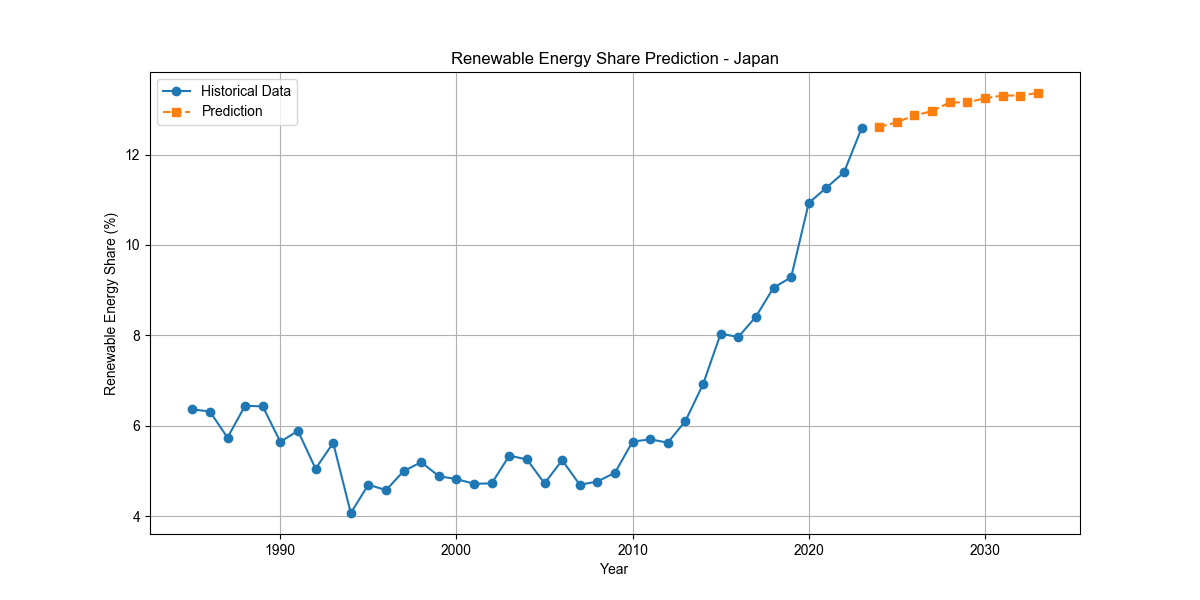
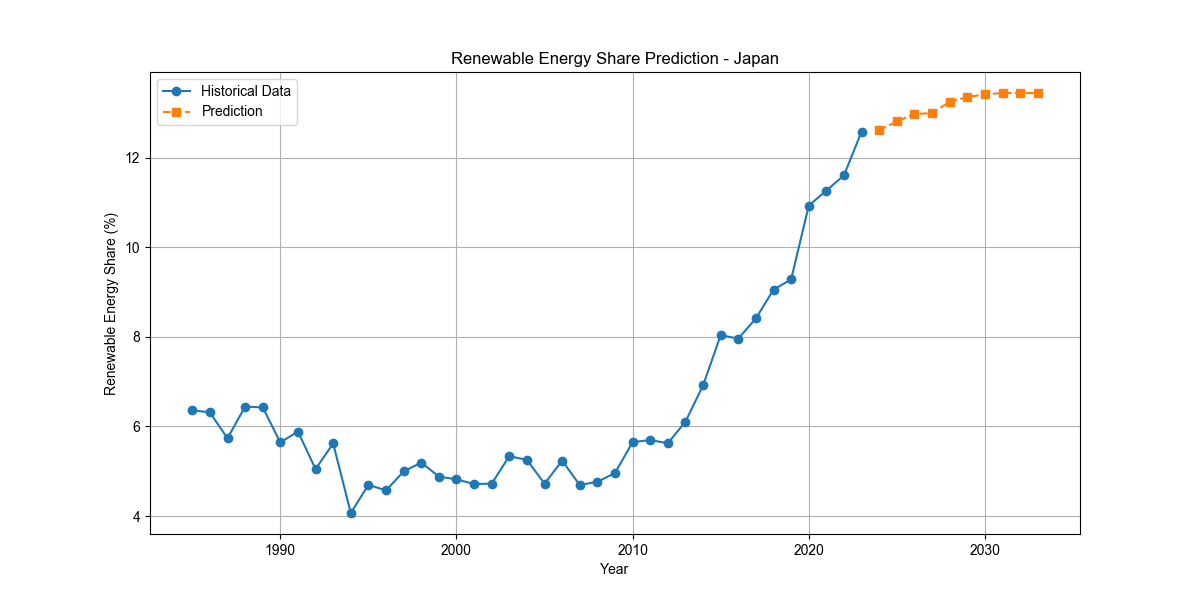
改进画图，做预测和实际的对比

diff --git a/main.py b/main.py
@@ -100,15 +100,15 @@ def filter_early_missing_data(df, missing_threshold=0.3):
     df_filtered = pd.concat(filtered_data, ignore_index=True)
     
     # 输出过滤信息
-    print("\n数据过滤信息:")
-    for country in df['country'].unique():
-        original_years = df[df['country'] == country]['year'].nunique()
-        if country_start_years[country] is not None:
-            filtered_years = df_filtered[df_filtered['country'] == country]['year'].nunique()
-            start_year = country_start_years[country]
-            print(f"{country}: 原始年份数 {original_years} -> 过滤后年份数 {filtered_years} (起始年份: {start_year})")
-        else:
-            print(f"{country}: 原始年份数 {original_years} -> 已删除 (未找到连续5年数据质量合格的起始年份)")
+    # print("\n数据过滤信息:")
+    # for country in df['country'].unique():
+    #     original_years = df[df['country'] == country]['year'].nunique()
+    #     if country_start_years[country] is not None:
+    #         filtered_years = df_filtered[df_filtered['country'] == country]['year'].nunique()
+    #         start_year = country_start_years[country]
+    #         print(f"{country}: 原始年份数 {original_years} -> 过滤后年份数 {filtered_years} (起始年份: {start_year})")
+    #     else:
+    #         print(f"{country}: 原始年份数 {original_years} -> 已删除 (未找到连续5年数据质量合格的起始年份)")
     
     return df_filtered
 
@@ -421,10 +421,17 @@ def train_model(df, test_years=5):
     country_scores = {}
     
     for country in countries:
+        # 获取该国家在测试集中的数据
         country_mask_test = (df['country'] == country) & test_mask
-        if sum(country_mask_test) > 1:  # 确保该国家在测试集中至少有2个数据点
+        country_test_data = df[country_mask_test]
+        
+        # 确保该国家在测试集中有足够的数据点（至少3年）
+        if len(country_test_data) >= 3:
+            # 使用该国家在测试集中的数据进行预测
             X_test_country = X[country_mask_test]
             y_test_country = y[country_mask_test]
+            
+            # 计算该国家的R²分数
             score = model.score(X_test_country, y_test_country)
             country_scores[country] = score
     
@@ -433,7 +440,7 @@ def train_model(df, test_years=5):
     for country, score in sorted(country_scores.items(), key=lambda x: x[1], reverse=True):
         print(f"{country}: {score:.3f}")
     
-    return model, X_train, X_test, y_train, y_test, country_scores
+    return model, X_train, X_test, y_train, y_test, country_scores, test_mask
 
 def evaluate_with_time_series_cv(df, n_splits=5):
     """
@@ -523,28 +530,45 @@ def analyze_feature_importance(model, feature_names):
 
 def predict_future(model, df, country, years_to_predict=5):
     """预测特定国家的未来趋势"""
-    latest_data = df[df['country'] == country].iloc[-1:].copy()
-    predictions = []
+    # 获取该国家的最新数据
+    country_data = df[df['country'] == country].copy()
+    latest_data = country_data.iloc[-1:].copy()
     
     # 获取训练模型时使用的特征（数值类型特征）
     feature_columns = [col for col in df.columns 
                       if col not in ['country', 'year', 'renewables_share_energy', 'iso_code']]
     numeric_features = df[feature_columns].select_dtypes(include=[np.number]).columns
     
+    predictions = []
+    current_data = latest_data.copy()
+    
+    # 计算历史趋势
+    historical_trend = country_data['renewables_share_energy'].pct_change().mean()
+    
     for i in range(years_to_predict):
         # 更新年份
-        latest_data['year'] = latest_data['year'] + 1
+        current_data['year'] = current_data['year'] + 1
         
         # 更新滞后特征
         for j in range(5, 0, -1):
             if j == 1:
-                latest_data[f'renewable_share_lag_{j}'] = predictions[-1] if predictions else latest_data['renewables_share_energy'].values[0]
+                # 使用历史趋势来调整预测值
+                if predictions:
+                    current_data[f'renewable_share_lag_{j}'] = predictions[-1] * (1 + historical_trend)
+                else:
+                    current_data[f'renewable_share_lag_{j}'] = current_data['renewables_share_energy'].values[0]
             else:
-                latest_data[f'renewable_share_lag_{j}'] = latest_data[f'renewable_share_lag_{j-1}']
+                current_data[f'renewable_share_lag_{j}'] = current_data[f'renewable_share_lag_{j-1}']
         
-        # 预测（使用与训练时相同的特征集）
-        pred = model.predict(latest_data[numeric_features])
-        predictions.append(pred[0])
+        # 预测
+        pred = model.predict(current_data[numeric_features])[0]
+        
+        # 确保预测值在合理范围内
+        last_value = predictions[-1] if predictions else current_data['renewables_share_energy'].values[0]
+        max_change = 0.1  # 最大允许变化率（10%）
+        pred = np.clip(pred, last_value * (1 - max_change), last_value * (1 + max_change))
+        
+        predictions.append(pred)
     
     return predictions
 
@@ -569,6 +593,47 @@ def plot_predictions(country, historical_data, predictions, future_years):
     
     return plt
 
+def plot_test_predictions(model, df, country, test_mask):
+    """绘制测试集上的预测效果对比图"""
+    # 获取该国家在测试集上的数据
+    country_mask = (df['country'] == country) & test_mask
+    country_test_data = df[country_mask]
+    
+    if len(country_test_data) < 3:
+        return None
+    
+    # 准备特征
+    feature_columns = [col for col in df.columns 
+                      if col not in ['country', 'year', 'renewables_share_energy', 'iso_code']]
+    numeric_features = df[feature_columns].select_dtypes(include=[np.number]).columns
+    
+    # 获取测试集上的预测值
+    X_test_country = df[country_mask][numeric_features]
+    y_true = df[country_mask]['renewables_share_energy']
+    y_pred = model.predict(X_test_country)
+    
+    # 创建图表
+    plt.figure(figsize=(12, 6))
+    
+    # 绘制实际值
+    plt.plot(country_test_data['year'], y_true, 
+             label='实际值', marker='o', color='blue')
+    
+    # 绘制预测值
+    plt.plot(country_test_data['year'], y_pred, 
+             label='预测值', marker='s', color='red', linestyle='--')
+    
+    # 计算R²分数
+    r2_score = model.score(X_test_country, y_true)
+    
+    plt.title(f'{country} 测试集预测效果对比 (R² = {r2_score:.3f})')
+    plt.xlabel('年份')
+    plt.ylabel('可再生能源占比 (%)')
+    plt.legend()
+    plt.grid(True)
+    
+    return plt
+
 def main():
     # 加载数据
     df = load_and_prepare_data('owid-energy-data.csv')
@@ -586,7 +651,7 @@ def main():
     
     # 训练最终模型
     print("\n训练最终模型...")
-    model, X_train, X_test, y_train, y_test, country_scores = train_model(df, test_years=5)
+    model, X_train, X_test, y_train, y_test, country_scores, test_mask = train_model(df, test_years=5)
     
     # 输出整体模型性能
     train_score = model.score(X_train, y_train)
@@ -600,21 +665,33 @@ def main():
     print("\n特征重要性:")
     print(importance)
     
-    # 为几个主要国家进行预测
-    main_countries = ['China', 'United States', 'India', 'Germany', 'Japan']
-    for country in main_countries:
-        if country in df['country'].unique():
-            predictions = predict_future(model, df, country, years_to_predict=10)
-            historical_data = df[df['country'] == country]
-            
-            print(f"\n{country}未来10年可再生能源占比预测:")
-            for year, pred in enumerate(predictions, start=historical_data['year'].max() + 1):
-                print(f"{year}年: {pred:.2f}%")
-            
-            # 绘制预测图表
-            plt = plot_predictions(country, historical_data, predictions, range(len(predictions)))
-            plt.savefig(f'prediction_{country}.png')
+    # 获取R²分数最高的五个国家
+    top_countries = sorted(country_scores.items(), key=lambda x: x[1], reverse=True)[:5]
+    print("\nR²分数最高的五个国家:")
+    for country, score in top_countries:
+        print(f"{country}: {score:.3f}")
+    
+    # 为R²分数最高的五个国家绘制测试集预测效果对比图
+    print("\n绘制测试集预测效果对比图...")
+    for country, score in top_countries:
+        plt = plot_test_predictions(model, df, country, test_mask)
+        if plt is not None:
+            plt.savefig(f'test_prediction_{country}.png')
             plt.close()
+    
+    # 为R²分数最高的五个国家进行未来预测
+    for country, score in top_countries:
+        predictions = predict_future(model, df, country, years_to_predict=10)
+        historical_data = df[df['country'] == country]
+        
+        print(f"\n{country}未来10年可再生能源占比预测:")
+        for year, pred in enumerate(predictions, start=historical_data['year'].max() + 1):
+            print(f"{year}年: {pred:.2f}%")
+        
+        # 绘制预测图表
+        plt = plot_predictions(country, historical_data, predictions, range(len(predictions)))
+        plt.savefig(f'prediction_{country}.png')
+        plt.close()
 
 if __name__ == "__main__":
     main()
